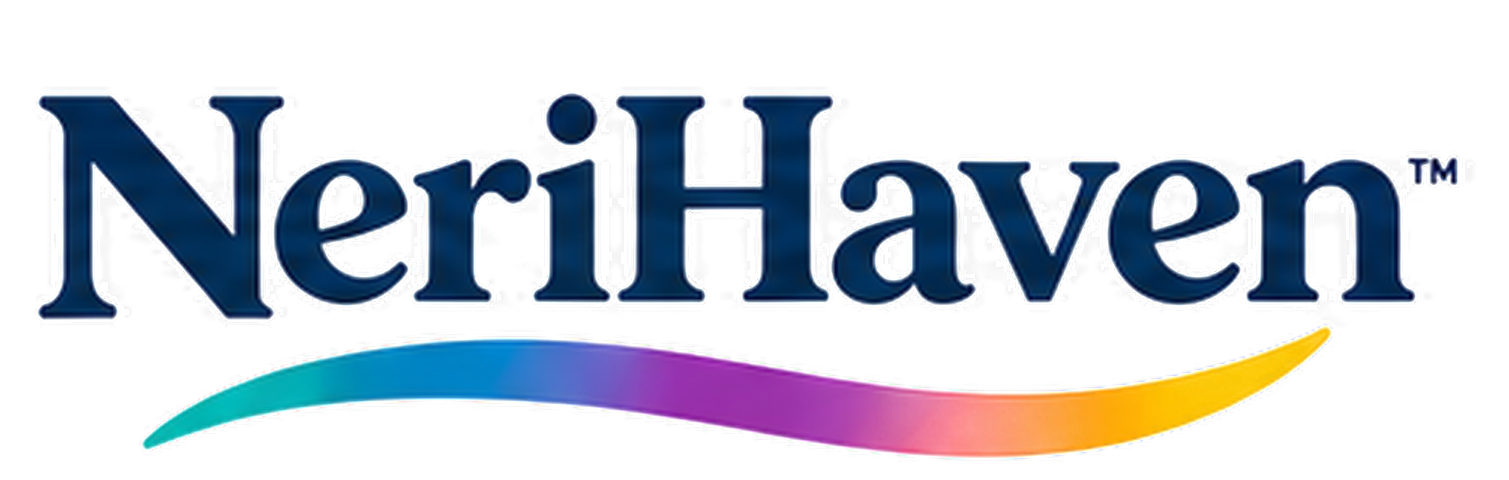
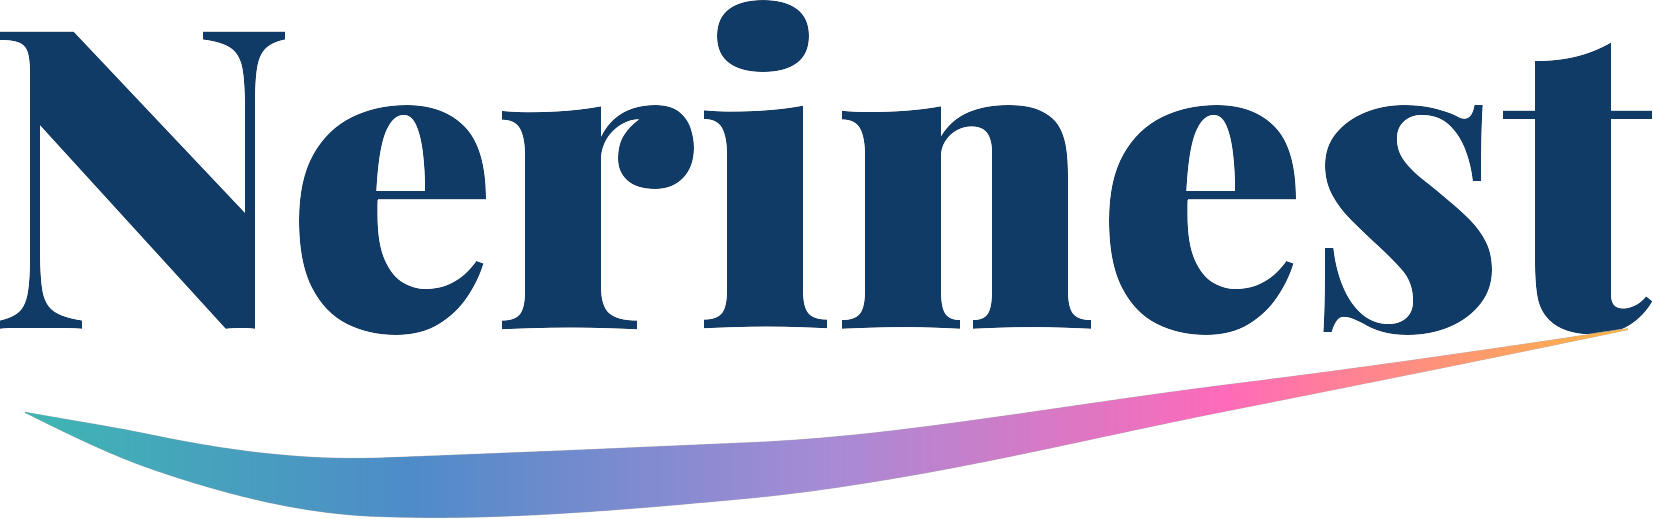
Rename NeriHaven to Nerinest
Text/display strings (titles, nav/footer copy, page content, class
names, docstrings, README, env comments) plus the site domain
(nerihaven.com -> nerinest.com in SITE_URL and related comments). Also
swaps in a freshly-rendered "Nerinest" wordmark (same Playfair Display
+ gradient-swoosh brand style as before) for the navbar/hero/footer
logo — the app-icon badge (just the letter "N") still applies as-is
and is unchanged.

Claude-Session: https://claude.ai/code/session_01Aj5pjVcGkpt9LcaWwKL4VZ

diff --git a/src/app/page.tsx b/src/app/page.tsx
@@ -35,7 +35,7 @@ export default function HomePage() {
         <div className="mx-auto flex max-w-5xl flex-col items-center px-5 pb-20 pt-20 text-center sm:pt-28">
           <Image
             src="/brand/wordmark-white.png"
-            alt="Neri Haven"
+            alt="Nerinest"
             width={420}
             height={115}
             priority
@@ -118,7 +118,7 @@ export default function HomePage() {
             Scams move fast. So should you.
           </h2>
           <p className="mt-4 text-nh-charcoal/70">
-            Join Neri Haven today — free forever on the basics, upgrade when you need more.
+            Join Nerinest today — free forever on the basics, upgrade when you need more.
           </p>
           <Link
             href="/signup"

diff --git a/src/lib/env.ts b/src/lib/env.ts
@@ -1,5 +1,5 @@
 /**
- * Neri Haven (web) — Environment Configuration
+ * Nerinest (web) — Environment Configuration
  * NEXT_PUBLIC_ vars are bundled into the client build — never put secrets here.
  * Mirrors skezzod-app's src/services/env.ts so both clients talk to the
  * same backend the same way.
@@ -21,7 +21,7 @@ export const ENV = {
   STRIPE_PRICE_FAMILYPLUS:
     process.env.NEXT_PUBLIC_STRIPE_PRICE_FAMILYPLUS ?? "",
 
-  SITE_URL: process.env.NEXT_PUBLIC_SITE_URL ?? "https://app.nerihaven.com",
+  SITE_URL: process.env.NEXT_PUBLIC_SITE_URL ?? "https://app.nerinest.com",
 
   IS_DEV: process.env.NODE_ENV !== "production",
 } as const;

diff --git a/src/lib/api.ts b/src/lib/api.ts
@@ -1,5 +1,5 @@
 /**
- * Neri Haven (web) — API Service
+ * Nerinest (web) — API Service
  * All calls to the Cloud Run backend go through here.
  * No secrets in this file — the backend owns all keys.
  * Port of skezzod-app's src/services/api.ts.
@@ -77,7 +77,7 @@ function friendlyMessage(status: number): string {
   return "Something went wrong. Please try again.";
 }
 
-class NeriHavenAPI {
+class NerinestAPI {
   private baseUrl: string;
   private timeout = 30_000;
 
@@ -146,4 +146,4 @@ class NeriHavenAPI {
   }
 }
 
-export const api = new NeriHavenAPI();
+export const api = new NerinestAPI();

diff --git a/src/components/Footer.tsx b/src/components/Footer.tsx
@@ -33,7 +33,7 @@ export function Footer() {
         </div>
 
         <div className="mt-10 flex flex-col gap-2 border-t border-nh-charcoal/10 pt-6 text-xs text-nh-charcoal/50 sm:flex-row sm:items-center sm:justify-between">
-          <span>© {new Date().getFullYear()} Neri Haven. All rights reserved.</span>
+          <span>© {new Date().getFullYear()} Nerinest. All rights reserved.</span>
           <span>Free plan includes 5 checks per day. No credit card required.</span>
         </div>
       </div>

diff --git a/src/app/layout.tsx b/src/app/layout.tsx
@@ -6,8 +6,8 @@ import { Footer } from "@/components/Footer";
 
 export const metadata: Metadata = {
   title: {
-    default: "Neri Haven — Protect your family from scams",
-    template: "%s — Neri Haven",
+    default: "Nerinest — Protect your family from scams",
+    template: "%s — Nerinest",
   },
   description:
     "Check any suspicious text, link, or call in seconds. AI-powered scam detection for you and your whole family.",

diff --git a/src/components/Logo.tsx b/src/components/Logo.tsx
@@ -18,7 +18,7 @@ export function Logo({
   const img = (
     <Image
       src={src}
-      alt="Neri Haven"
+      alt="Nerinest"
       width={width}
       height={height}
       priority
@@ -28,7 +28,7 @@ export function Logo({
 
   if (!href) return img;
   return (
-    <Link href={href} aria-label="Neri Haven home">
+    <Link href={href} aria-label="Nerinest home">
       {img}
     </Link>
   );

diff --git a/src/lib/plans.ts b/src/lib/plans.ts
@@ -1,5 +1,5 @@
 /**
- * Neri Haven Plan System (web)
+ * Nerinest Plan System (web)
  * Kept in sync by hand with skezzod-app's src/services/plans.ts — same
  * plan IDs, limits and Stripe price env vars, so both clients agree with
  * the backend about what each tier includes.

diff --git a/src/lib/auth.ts b/src/lib/auth.ts
@@ -1,5 +1,5 @@
 /**
- * Neri Haven (web) — Auth Service
+ * Nerinest (web) — Auth Service
  * Firebase Identity Toolkit REST API — no SDK needed.
  * Direct port of skezzod-app's src/services/auth.ts so both clients use
  * the exact same backend contract.

diff --git a/src/lib/billing.ts b/src/lib/billing.ts
@@ -1,5 +1,5 @@
 /**
- * Neri Haven (web) — Billing Service
+ * Nerinest (web) — Billing Service
  *
  * Mobile app → backend → Stripe → webhook → backend → Firestore
  * This client NEVER calls Stripe directly; the secret key lives only on

diff --git a/src/app/globals.css b/src/app/globals.css
@@ -9,7 +9,7 @@
 @import "@fontsource/pacifico/400.css";
 
 :root {
-  /* Neri Haven brand palette */
+  /* Nerinest brand palette */
   --nh-navy: #0f3b66;
   --nh-blue: #4f8cc9;
   --nh-teal: #3fb7b3;

diff --git a/README.md b/README.md
@@ -1,6 +1,6 @@
-# Neri Haven — Web
+# Nerinest — Web
 
-Standalone web app for Neri Haven — **separate from the mobile app**
+Standalone web app for Nerinest — **separate from the mobile app**
 (`skezzod-app`, React Native/Expo), built web-native with Next.js, and
 sharing the same backend (`skezzod-api`) and Firebase Auth project.
 
